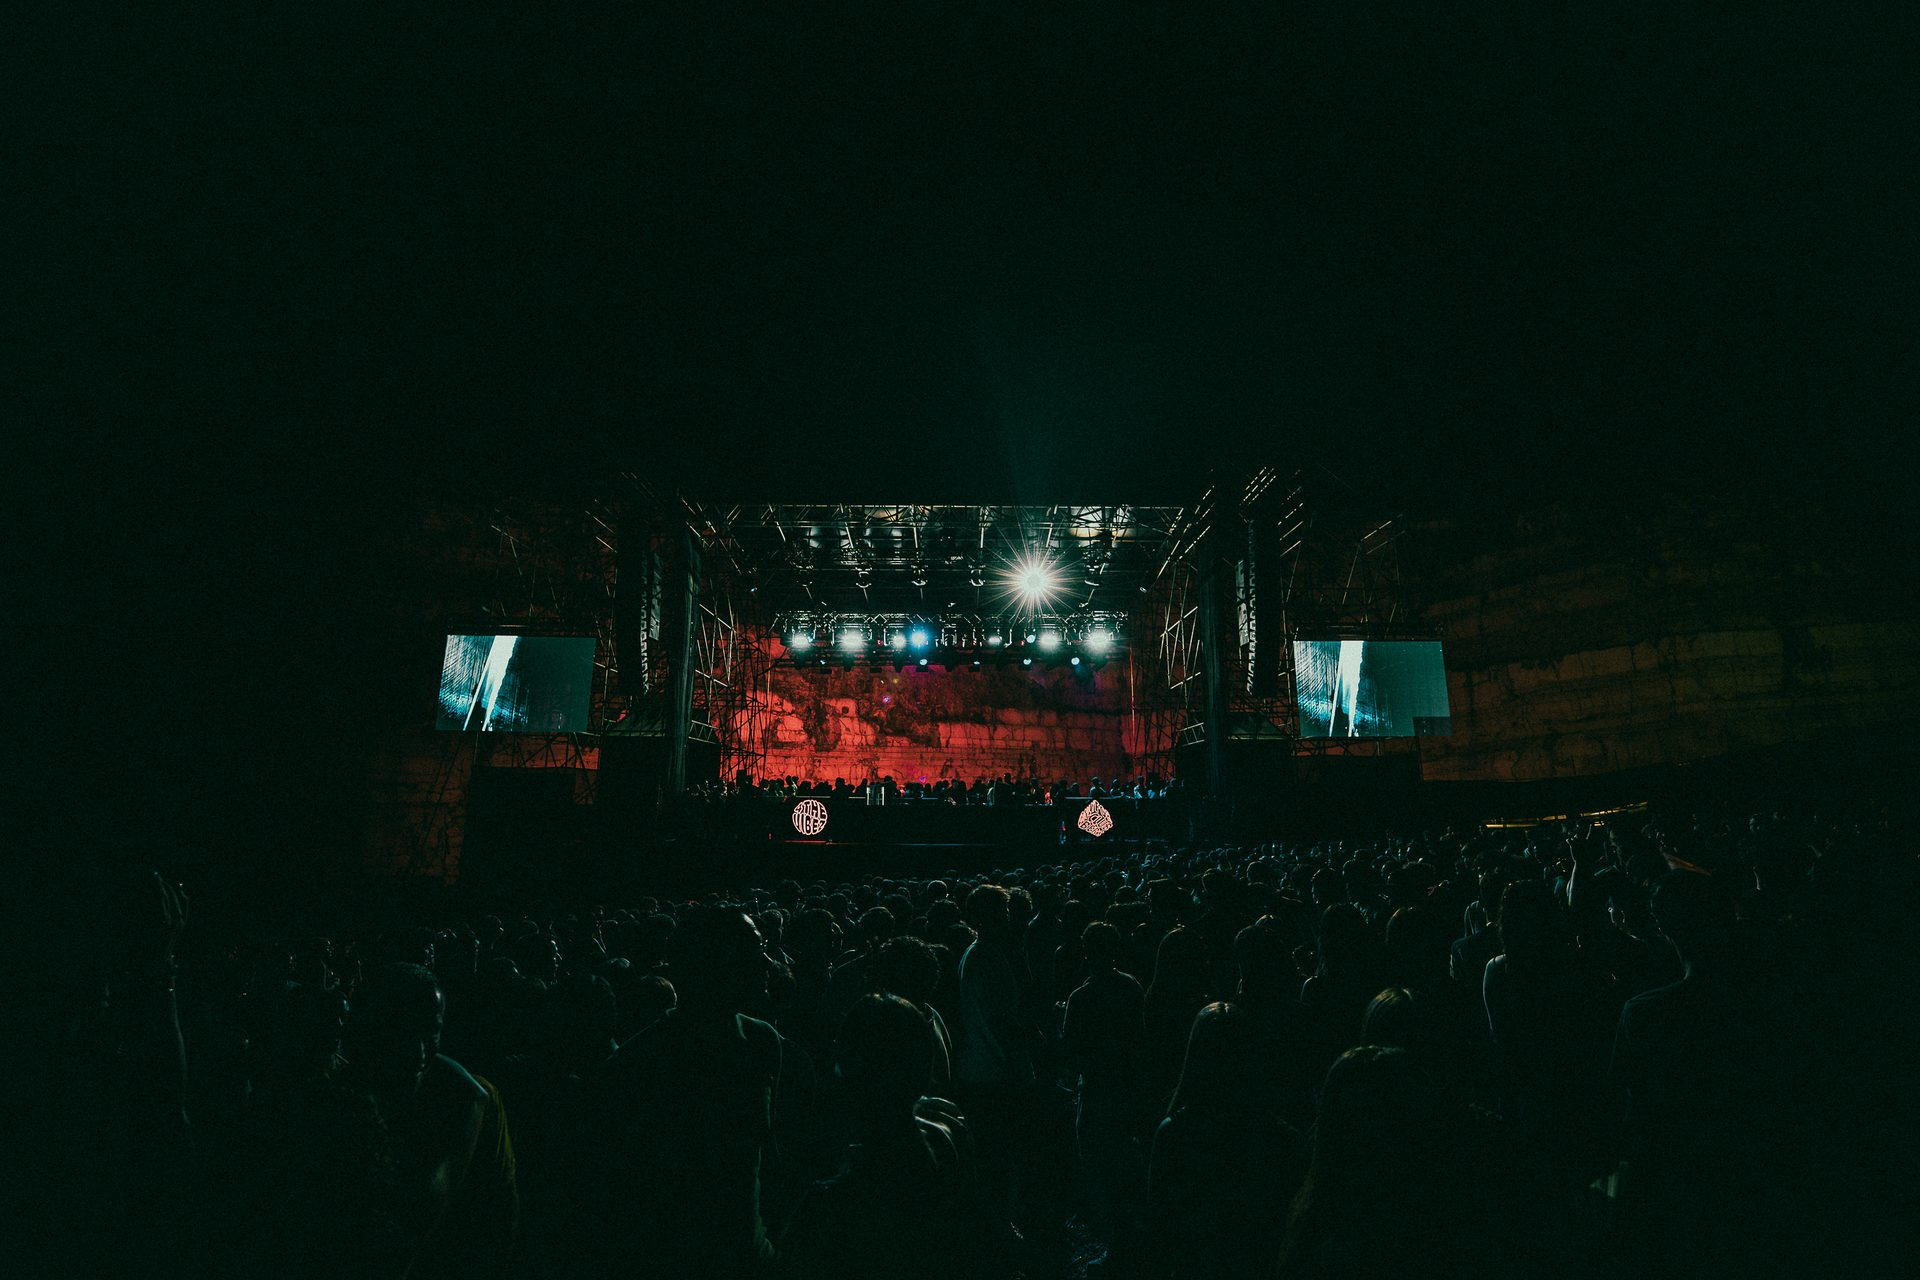
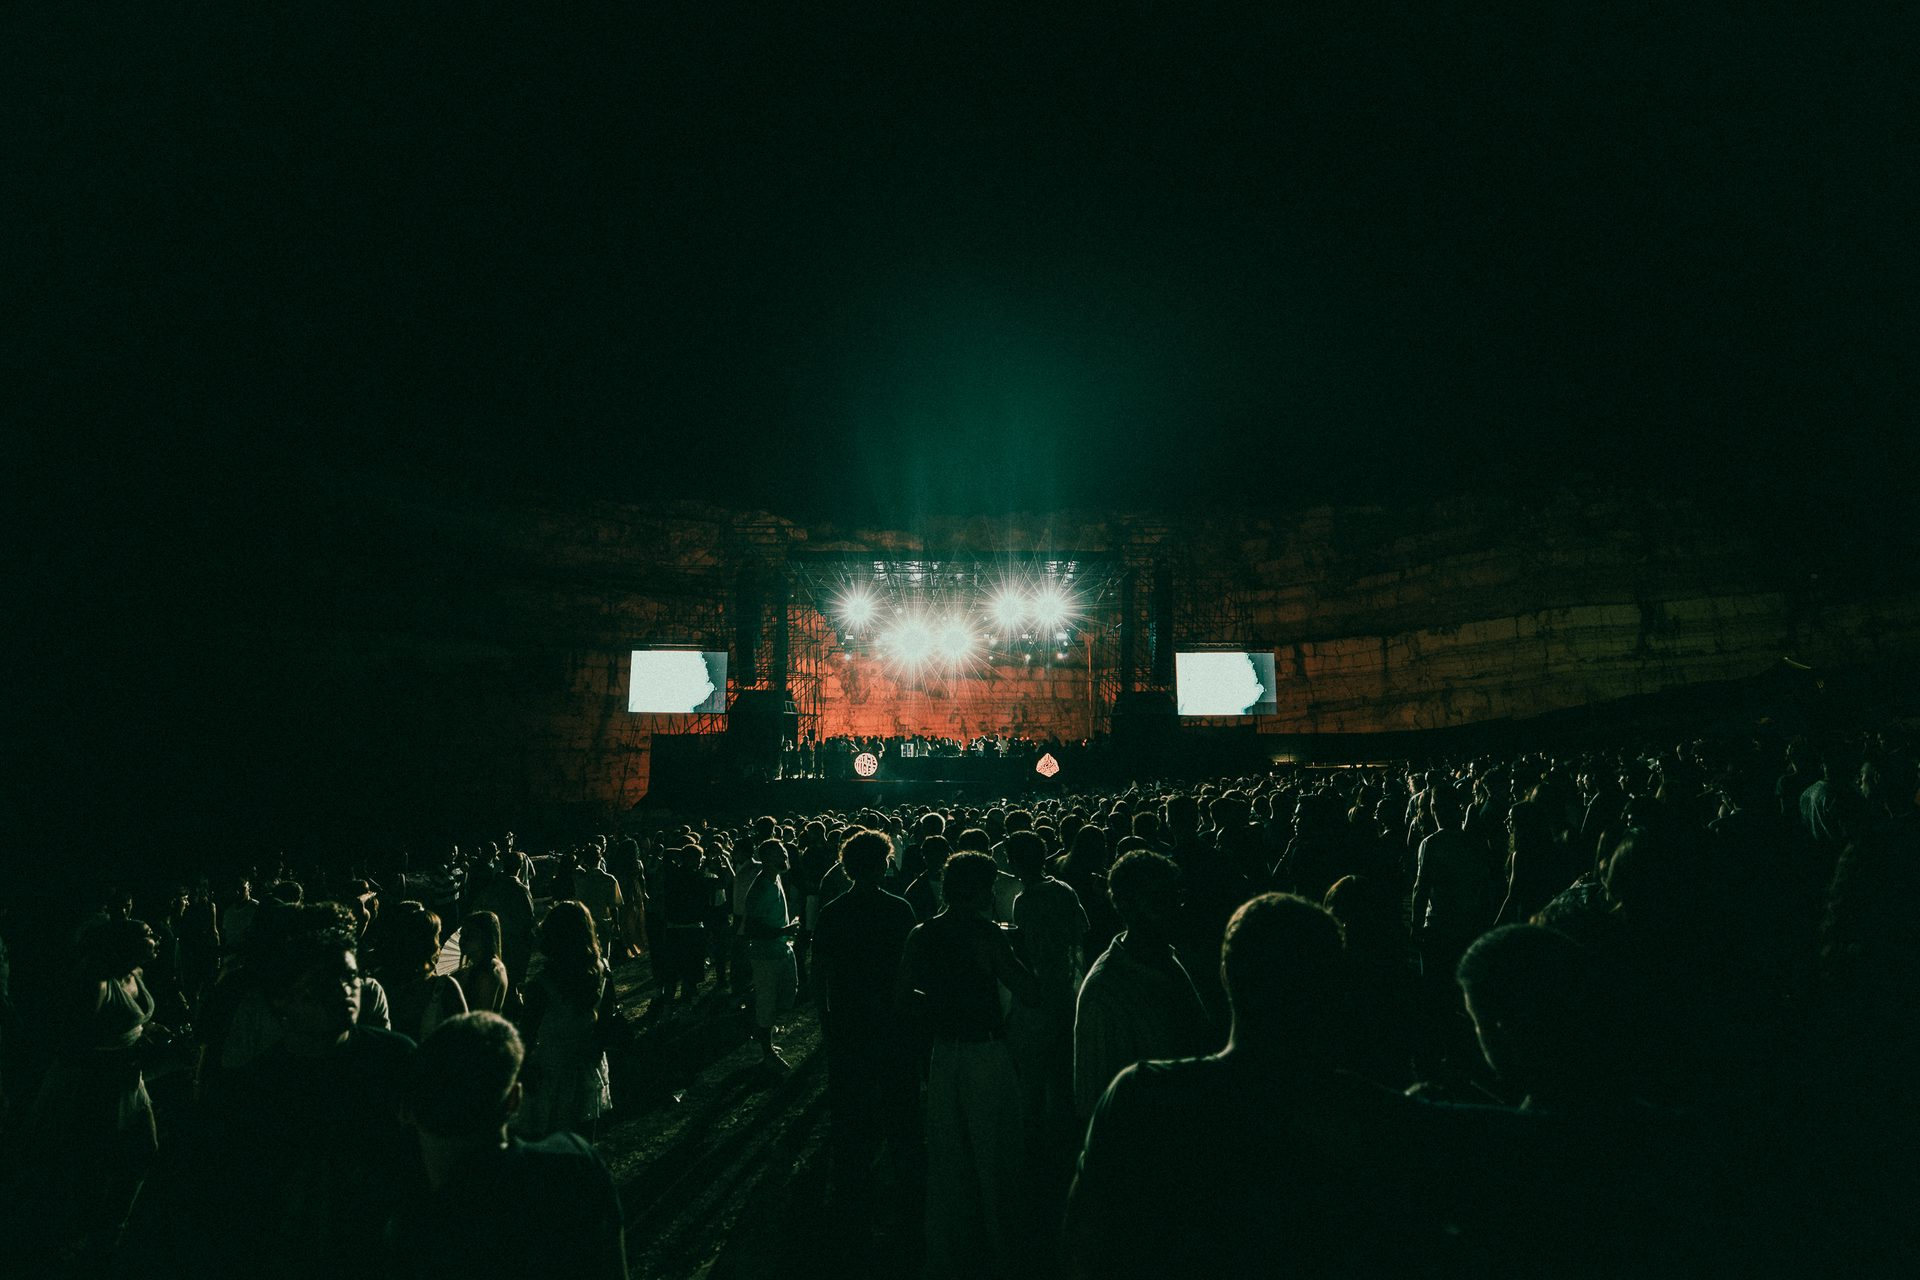
landing: cambiata la foto di sfondo
Nuova inquadratura di Grigolato: la folla in primo piano, il palco col
fascio verde centrato. A differenza dello scatto precedente il contrasto
passa ovunque nell'impronta del marchio (la foto e' scura in modo uniforme,
non ha un punto caldo dietro al centro), quindi qui la scelta e' stata solo
compositiva: provate quattro inquadrature affiancate, scelta 118% di zoom
con origine al 60% -- il palco resta intero e centrato invece di stringersi
come farebbe un 132%.

diff --git a/index.html b/index.html
@@ -56,7 +56,7 @@ body{background:#000;color:var(--sabbia);font-family:var(--corpo);
    del marchio l'area sotto i 3:1 e' ZERO, 99o percentile 4,57:1.          */
 .notte,.vetro{position:fixed;inset:0;
   background:url(_a/cava-29.jpg) center/cover no-repeat;
-  transform:scale(1.32);transform-origin:center 70%}
+  transform:scale(1.18);transform-origin:center 60%}
 .notte::after,.vetro::after{content:"";position:absolute;inset:0;
   background:linear-gradient(180deg,rgba(7,7,7,.45) 0%,rgba(7,7,7,.62) 100%)}
 .notte{z-index:0}
